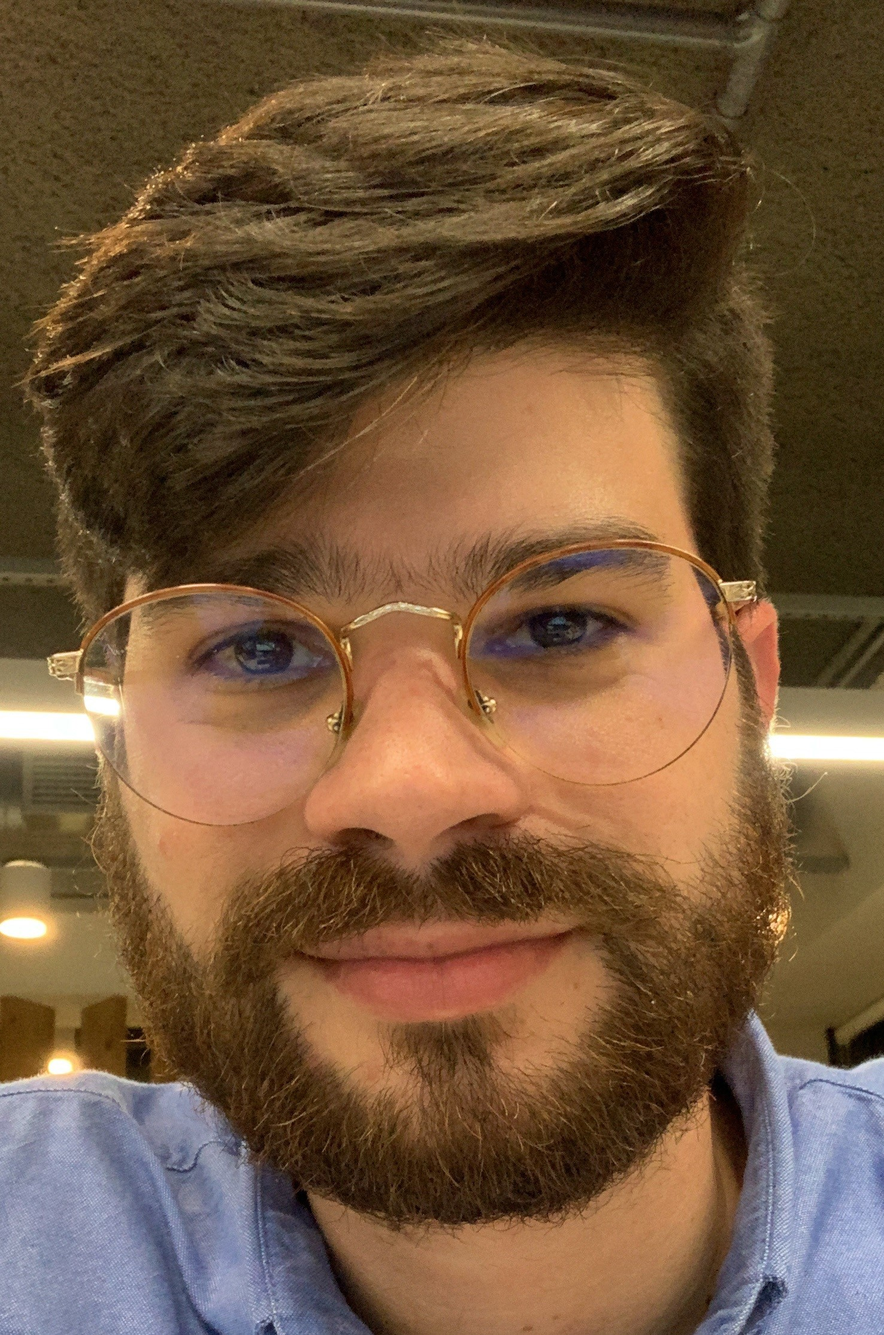
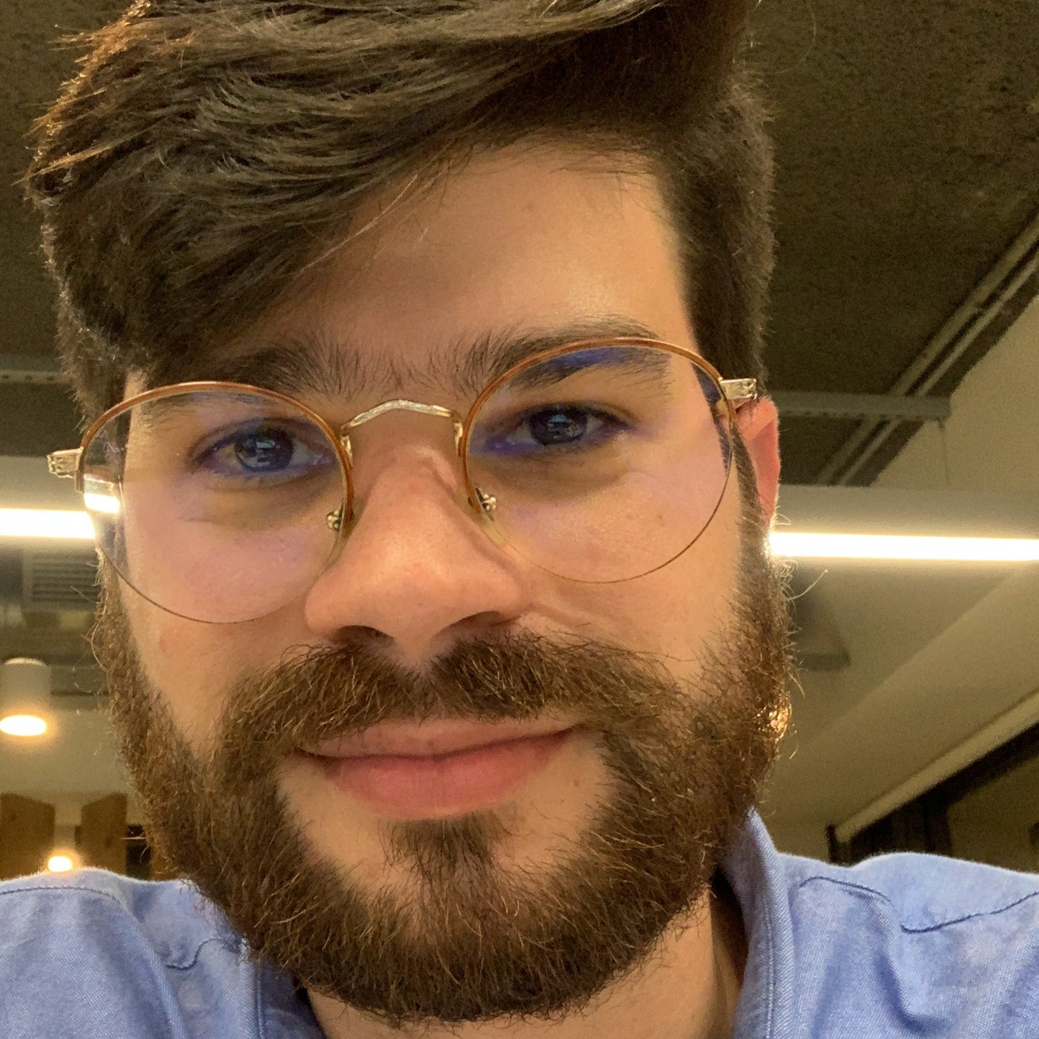
MyWebsite update

diff --git a/MyWebSite/index.html b/MyWebSite/index.html
@@ -62,7 +62,7 @@
         <div class="col-lg-7 p-lg-5 pt-lg-5 me-0">
           <div class="container pt-2 pt-lg-0">
             <div class="d-flex justify-content-center p-4" id="foto">
-              <img class="d-block d-lg-none" src="./images/fotoefeitos.com_.jpg" alt="eu">
+              <img class="d-block d-lg-none" src="./images/eu_mobile.jpg" alt="eu">
             </div>
             <h1 class="display-lg-6 fw-bold lh-1 text-body-emphasis mb-lg-0 pb-lg-2 px-lg-0 text-center text-lg-start">Douglas Lima Barboza</h1>
             <h3 class="fw-bold lh-1 mb-4 pt-5 text-center text-lg-start">Desenvolvedor Backend</h3>
@@ -232,13 +232,12 @@
   <div class="container-fluid">
     <footer class="d-flex flex-wrap justify-content-between align-items-center py-3 my-4 border-top">
       <div class="col-md-4 d-flex align-items-center">
-        <a href="/" class="mb-3 me-2 mb-md-0 text-body-secondary text-decoration-none lh-1 pt-2">
-          <svg class="bi" width="30" height="24"><use xlink:href="#bootstrap"></use></svg>
-        </a>
-        <span class="mb-3 mb-md-0 text-body-secondary">© 2023 Douglas</span>
+        <div href="/" class="mb-3 me-2 mb-md-0 text-body-secondary text-decoration-none lh-1 pt-2">
+          <span class="mb-3 mb-md-0 text-body-secondary">© 2023 Douglas</span>
+        </div>
       </div>
   
-      <ul class="nav col-md-4 justify-content-end list-unstyled d-flex pe-5">
+      <ul class="nav col-md-8 justify-content-end list-unstyled d-inline-flex pe-1">
         <li id="twitter" class="ms-3"><a class="text-body-secondary" href="https://twitter.com/Douglimaonline" target="_blank"><svg class="bi" width="24" height="24" xmlns="http://www.w3.org/2000/svg" fill="currentColor" class="bi bi-twitter" viewBox="0 0 16 16">
           <path d="M5.026 15c6.038 0 9.341-5.003 9.341-9.334 0-.14 0-.282-.006-.422A6.685 6.685 0 0 0 16 3.542a6.658 6.658 0 0 1-1.889.518 3.301 3.301 0 0 0 1.447-1.817 6.533 6.533 0 0 1-2.087.793A3.286 3.286 0 0 0 7.875 6.03a9.325 9.325 0 0 1-6.767-3.429 3.289 3.289 0 0 0 1.018 4.382A3.323 3.323 0 0 1 .64 6.575v.045a3.288 3.288 0 0 0 2.632 3.218 3.203 3.203 0 0 1-.865.115 3.23 3.23 0 0 1-.614-.057 3.283 3.283 0 0 0 3.067 2.277A6.588 6.588 0 0 1 .78 13.58a6.32 6.32 0 0 1-.78-.045A9.344 9.344 0 0 0 5.026 15z"/>
         </svg></a></li>

diff --git a/MyWebSite/style.css b/MyWebSite/style.css
@@ -21,6 +21,6 @@
     height: 50px; /* Altura do espaçador */
 }
 #foto img{
-    width: 150px;
+    width: 180px;
     border-radius: 50%;
 }
